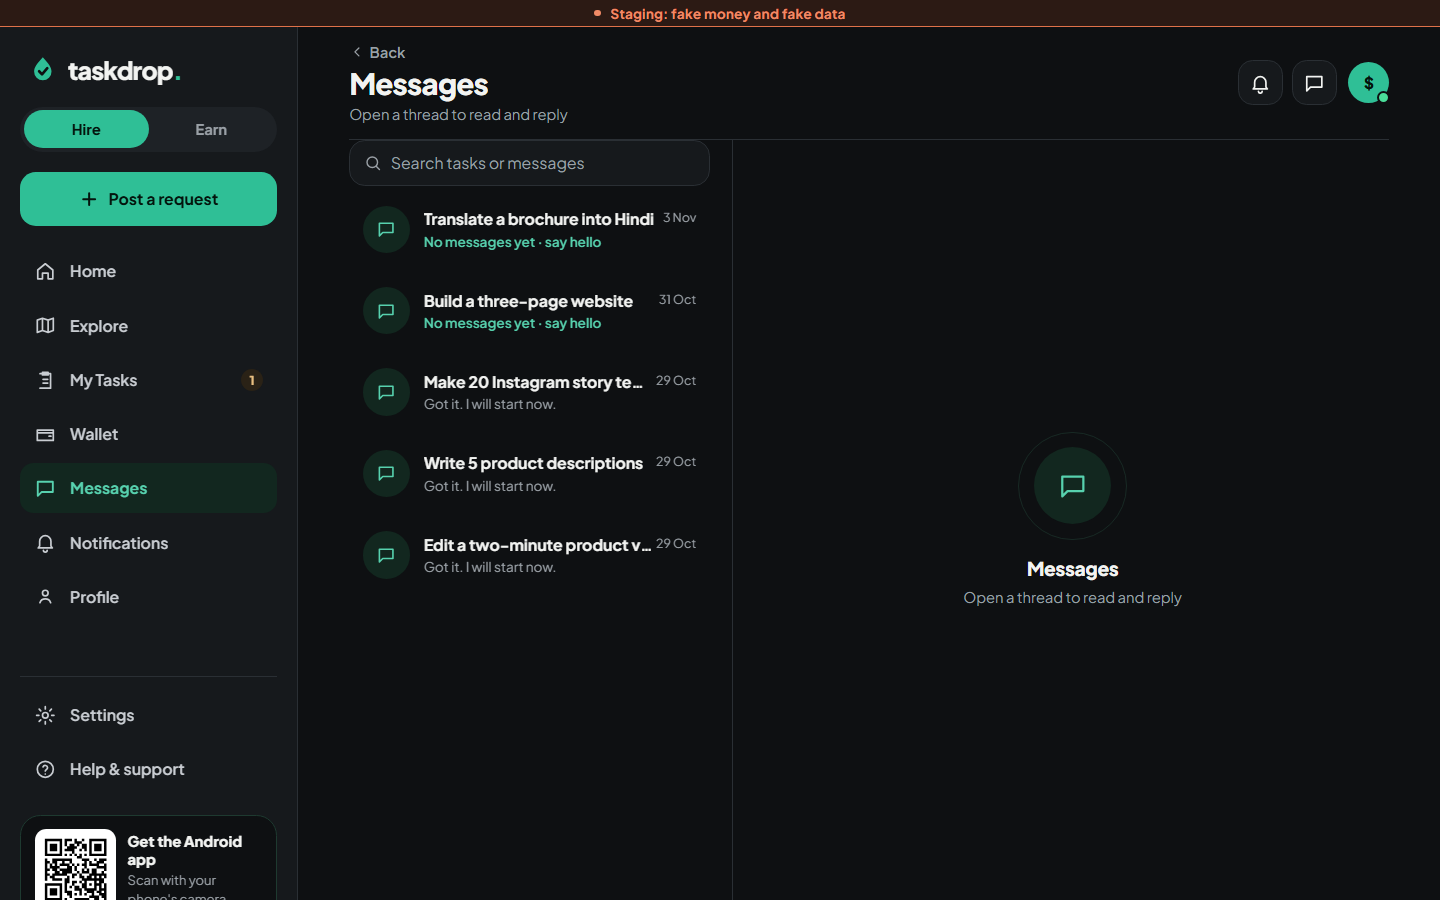
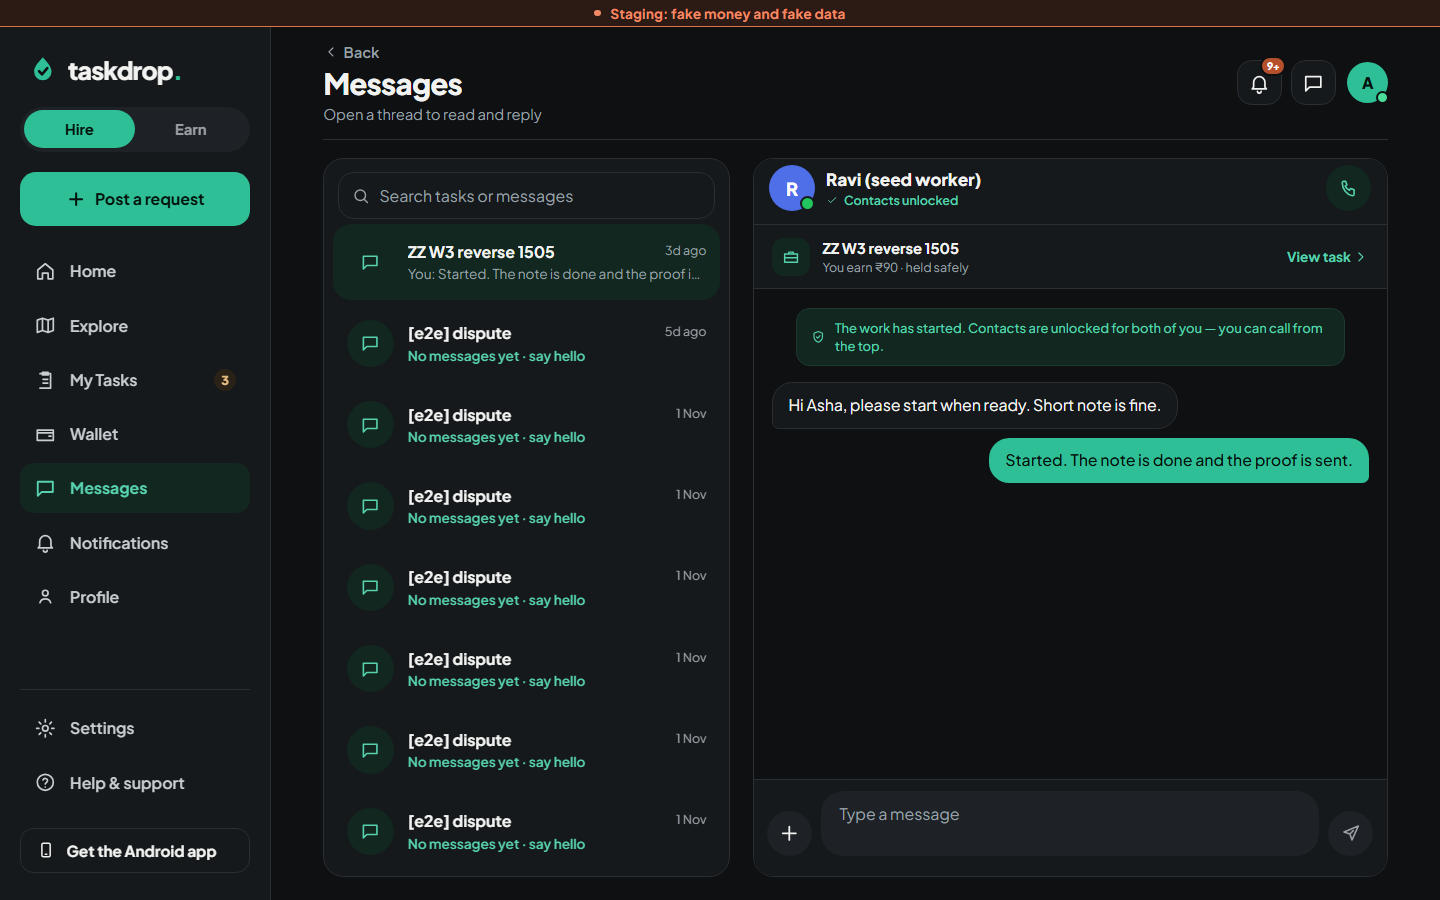
Desktop package 12: Messages master-detail on cards, chats open in the right pane
Desktop web (>= 1024) only. The conversation list sits on a 360-wide card and
the open conversation on a second card. A chat opened from anywhere else
(task page, notification) now shows as Messages with that conversation
selected, instead of a separate full page; Back still returns to where it was
opened from. The embedded chat no longer adds a second Back link to the page
header. Phone, tablet and Android unchanged (pixel-identical at 390x844).

diff --git a/apps/mobile/src/screens/InboxScreen.tsx b/apps/mobile/src/screens/InboxScreen.tsx
@@ -5,9 +5,9 @@ import { Icon } from '../components/Icon';
 import { EmptyState, LoadFailed, Shimmer, TopBar, timeAgo } from '../components/kit';
 import { FadeIn, tx } from '../components/primitives';
 import { useTheme, ring } from '../providers/ThemeProvider';
-import { ScreenScope, useFocusTick, useNav } from '../providers/NavProvider';
+import { ScreenScope, useFocusTick, useNav, type NavParams } from '../providers/NavProvider';
 import { useLayout } from '../lib/layout';
-import { ChatScreen } from './ChatScreen';
+import { ChatPaneContext, ChatScreen } from './ChatScreen';
 import { listThreads, type Thread } from '../data/extras';
 import { useAuth } from '../providers/AuthProvider';
 import { GuestScreen } from '../components/GuestBits';
@@ -19,8 +19,12 @@ import { reportError } from '../lib/errors';
  */
 export function InboxScreen() {
   const t = useTheme();
-  const { back, go } = useNav();
+  const { back, go, params } = useNav();
   const { guest } = useAuth();
+  // Desktop: a chat opened from elsewhere arrives here (ChatScreen replaces itself) with its own params, and opens
+  // selected in the right pane, even before it shows up in the list.
+  const asked = params.openChat && typeof params.openChat === 'object' ? (params.openChat as NavParams) : null;
+  const askedId = asked && typeof asked.taskId === 'string' ? asked.taskId : null;
   const focusTick = useFocusTick();
   const [threads, setThreads] = useState<Thread[] | null>(null);
   // True when the last load failed (offline, server hiccup): an empty list is then
@@ -30,7 +34,10 @@ export function InboxScreen() {
   // Desktop (W6): the inbox on the left and the open conversation beside it.
   // A phone keeps opening the conversation as its own page.
   const { desktop } = useLayout();
-  const [openId, setOpenId] = useState<string | null>(null);
+  const [openId, setOpenId] = useState<string | null>(askedId);
+  useEffect(() => {
+    if (askedId) setOpenId(askedId);
+  }, [askedId]);
   // Bumped by "Try again" to run the load once more.
   const [retry, setRetry] = useState(0);
 
@@ -61,9 +68,15 @@ export function InboxScreen() {
     return threads.filter((x) => (x.title + ' ' + x.lastBody).toLowerCase().includes(needle));
   }, [threads, q]);
 
-  const split = desktop && (threads?.length ?? 0) > 0;
-  // Nothing opens until a thread is picked: opening one marks it read.
-  const open = split ? (threads!.find((x) => x.taskId === openId) ?? null) : null;
+  const split = desktop && ((threads?.length ?? 0) > 0 || askedId !== null);
+  // Nothing opens until a thread is picked (or a chat was asked for). The pane runs the same ChatScreen, with the
+  // same loads, as the phone's chat page.
+  const found = split ? (threads?.find((x) => x.taskId === openId) ?? null) : null;
+  const open: { taskId: string; params: NavParams } | null = found
+    ? { taskId: found.taskId, params: found.taskId === askedId && asked ? { ...asked, title: found.title } : { taskId: found.taskId, title: found.title } }
+    : split && openId !== null && openId === askedId && asked
+      ? { taskId: openId, params: asked }
+      : null;
 
   if (guest) {
     return (
@@ -85,7 +98,8 @@ export function InboxScreen() {
           flexDirection: 'row',
           alignItems: 'center',
           gap: 8,
-          marginHorizontal: 20,
+          marginHorizontal: split ? 12 : 20,
+          marginTop: split ? 12 : 0,
           ...cardSurface(t, 14),
           paddingHorizontal: 12,
         }}
@@ -99,7 +113,7 @@ export function InboxScreen() {
           style={tx('400', 14, t.colors.ink, { flex: 1, paddingVertical: 11 })}
         />
       </View>
-      <ScrollView style={{ flex: 1 }} contentContainerStyle={{ paddingHorizontal: 20, paddingBottom: 24 }}>
+      <ScrollView style={{ flex: 1 }} contentContainerStyle={{ paddingHorizontal: split ? 8 : 20, paddingBottom: split ? 12 : 24 }}>
         {shown === null ? (
           [0, 1, 2].map((i) => <Shimmer key={i} height={64} style={{ marginTop: 12 }} />)
         ) : shown.length === 0 && failed && (threads?.length ?? 0) === 0 ? (
@@ -158,15 +172,25 @@ export function InboxScreen() {
   );
 
   if (split) {
+    // Desktop (PLAN package 12): the conversation list on its own card, the open conversation on a second card.
+    const card = {
+      backgroundColor: t.colors.surface,
+      borderWidth: 1,
+      borderColor: t.colors.line,
+      borderRadius: 18,
+      overflow: 'hidden',
+    } as const;
     return (
       <Screen padded={false}>
-        <View style={{ flex: 1, flexDirection: 'row' }}>
-          <View style={{ width: 360, borderRightWidth: 1, borderRightColor: t.colors.line }}>{list}</View>
-          <View style={{ flex: 1, minWidth: 0 }}>
+        <View style={{ flex: 1, flexDirection: 'row', gap: 20, paddingHorizontal: 20, paddingTop: 16, paddingBottom: 20 }}>
+          <View style={{ width: 360, ...card }}>{list}</View>
+          <View style={{ flex: 1, minWidth: 0, ...card }}>
             {open ? (
-              <ScreenScope key={open.taskId} params={{ taskId: open.taskId, title: open.title }} focus={0}>
-                <ChatScreen />
-              </ScreenScope>
+              <ChatPaneContext.Provider value>
+                <ScreenScope key={open.taskId} params={open.params} focus={0}>
+                  <ChatScreen />
+                </ScreenScope>
+              </ChatPaneContext.Provider>
             ) : (
               <EmptyState icon="chat" title="Messages" body="Open a thread to read and reply" style={{ flex: 1, justifyContent: 'center' }} />
             )}

diff --git a/apps/mobile/src/screens/ChatScreen.tsx b/apps/mobile/src/screens/ChatScreen.tsx
@@ -1,4 +1,4 @@
-import { useEffect, useRef, useState } from 'react';
+import { createContext, useContext, useEffect, useLayoutEffect, useRef, useState } from 'react';
 import { mergeById } from '../lib/mergeById';
 import {
   View,
@@ -43,6 +43,7 @@ import { tx } from '../components/primitives';
 import { KeyboardSafe } from '../components/KeyboardSafe';
 import { workerEarnsMinor } from '../lib/heldWords';
 import { useFees } from '../lib/useFees';
+import { useLayout } from '../lib/layout';
 
 /**
  * Per-task chat: header with the other person and a call button, the task
@@ -119,9 +120,21 @@ function ChatPhoto({ path }: { path: string }) {
   );
 }
 
+/**
+ * True inside the desktop Messages page's right-hand pane (InboxScreen, docs/design/desktop-web/PLAN.md package 12).
+ * There the page header already carries the Messages title and its Back link, so the chat draws no back control of
+ * its own. Never set on a phone or tablet.
+ */
+export const ChatPaneContext = createContext(false);
+
 export function ChatScreen() {
   const t = useTheme();
-  const { params, back, go } = useNav();
+  const { params, back, go, replace } = useNav();
+  const inPane = useContext(ChatPaneContext);
+  // Desktop web: a chat opened from anywhere (a notification, a task page) shows as Messages with that conversation
+  // selected in the right pane. Replace, not push, so Back leaves to wherever the chat was opened from, as before.
+  const { desktop } = useLayout();
+  const toMessages = Platform.OS === 'web' && desktop && !inPane;
   const { mode } = useMode();
   const fees = useFees();
   const focusTick = useFocusTick();
@@ -149,6 +162,12 @@ export function ChatScreen() {
   const [calling, setCalling] = useState(false);
   const [warning, setWarning] = useState<string | null>(null);
   const scrollRef = useRef<ScrollViewInstance>(null);
+
+  useLayoutEffect(() => {
+    if (toMessages && !guest) replace('inbox', { openChat: params });
+    // Only when the chat first shows on a desktop; the params belong to this one chat.
+    // eslint-disable-next-line react-hooks/exhaustive-deps
+  }, [toMessages, guest]);
 
   const contactsOpen = status !== null && OPEN_STATUSES.includes(status);
   // Until the task loads, fall back to the mode; after that the task decides.
@@ -352,6 +371,8 @@ export function ChatScreen() {
   </Pressable>
   );
 
+  if (toMessages && !guest) return null;
+
   if (guest) {
     return (
       <GuestScreen
@@ -381,7 +402,7 @@ export function ChatScreen() {
             borderBottomColor: t.colors.line,
           }}
         >
-          <BackButton onBack={back} titleView={person} right={callButton} />
+          {inPane ? null : <BackButton onBack={back} titleView={person} right={callButton} />}
           {systemHeader ? null : (
             <>
               {person}
